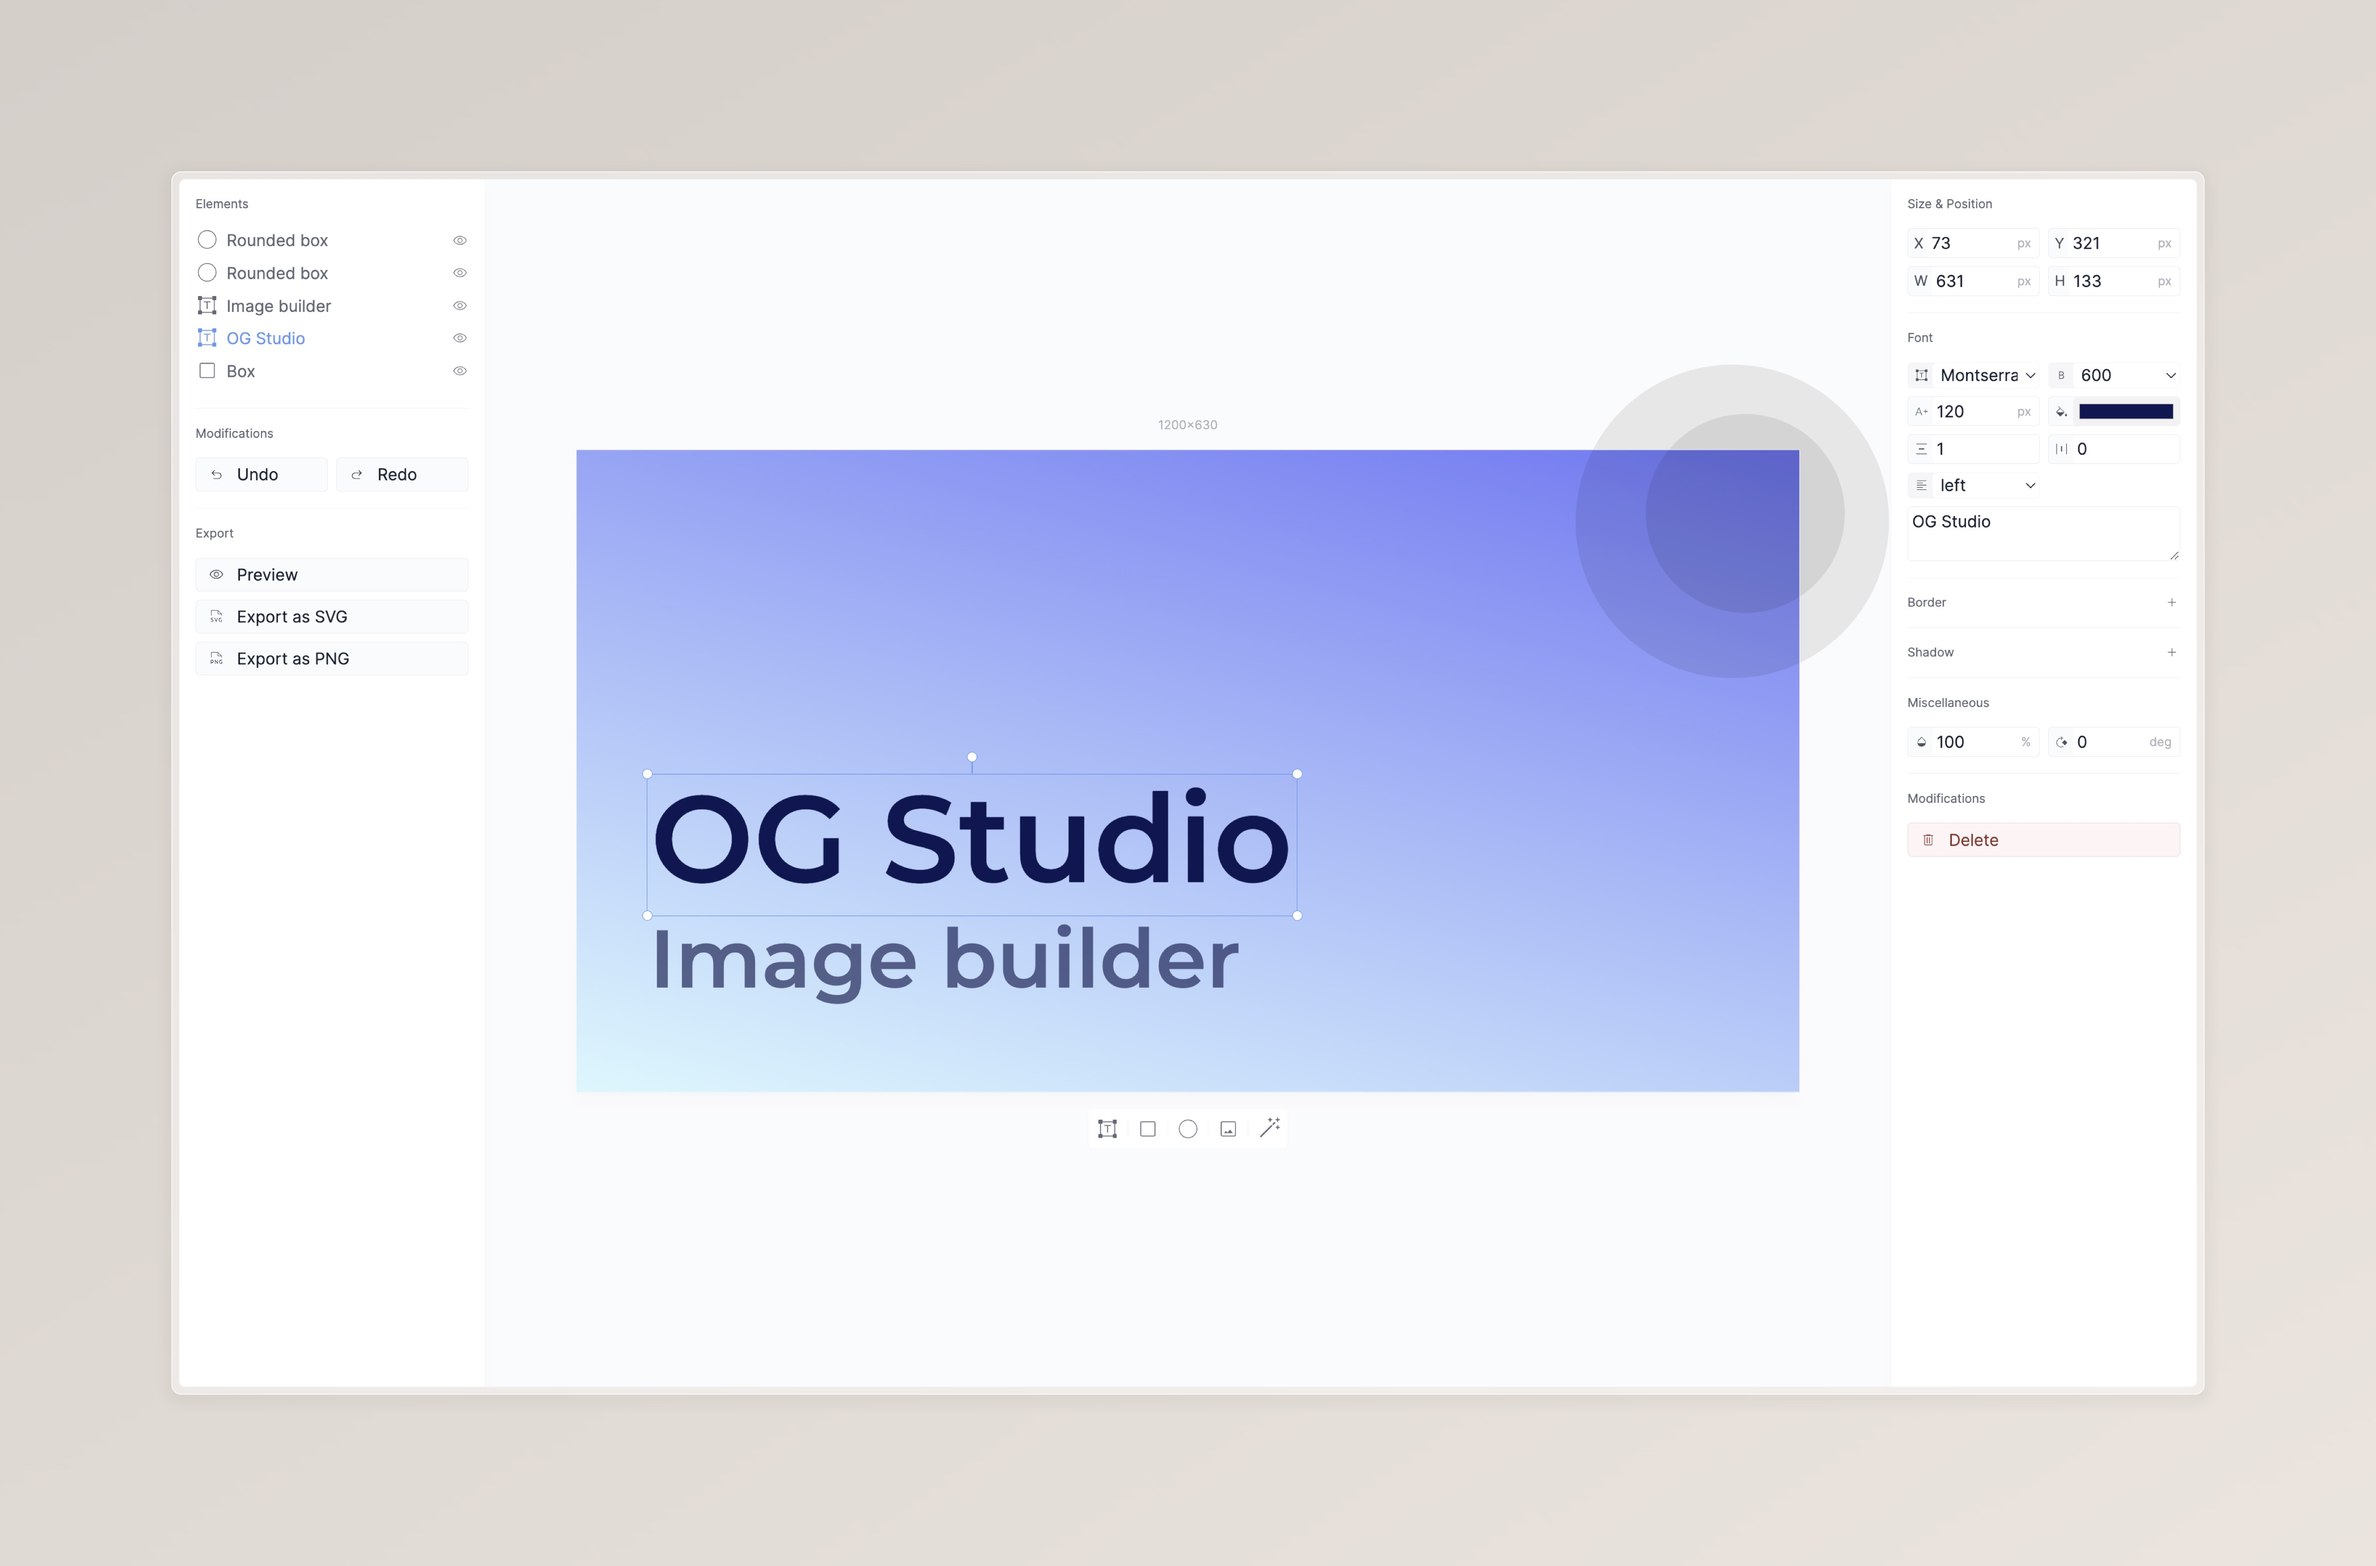
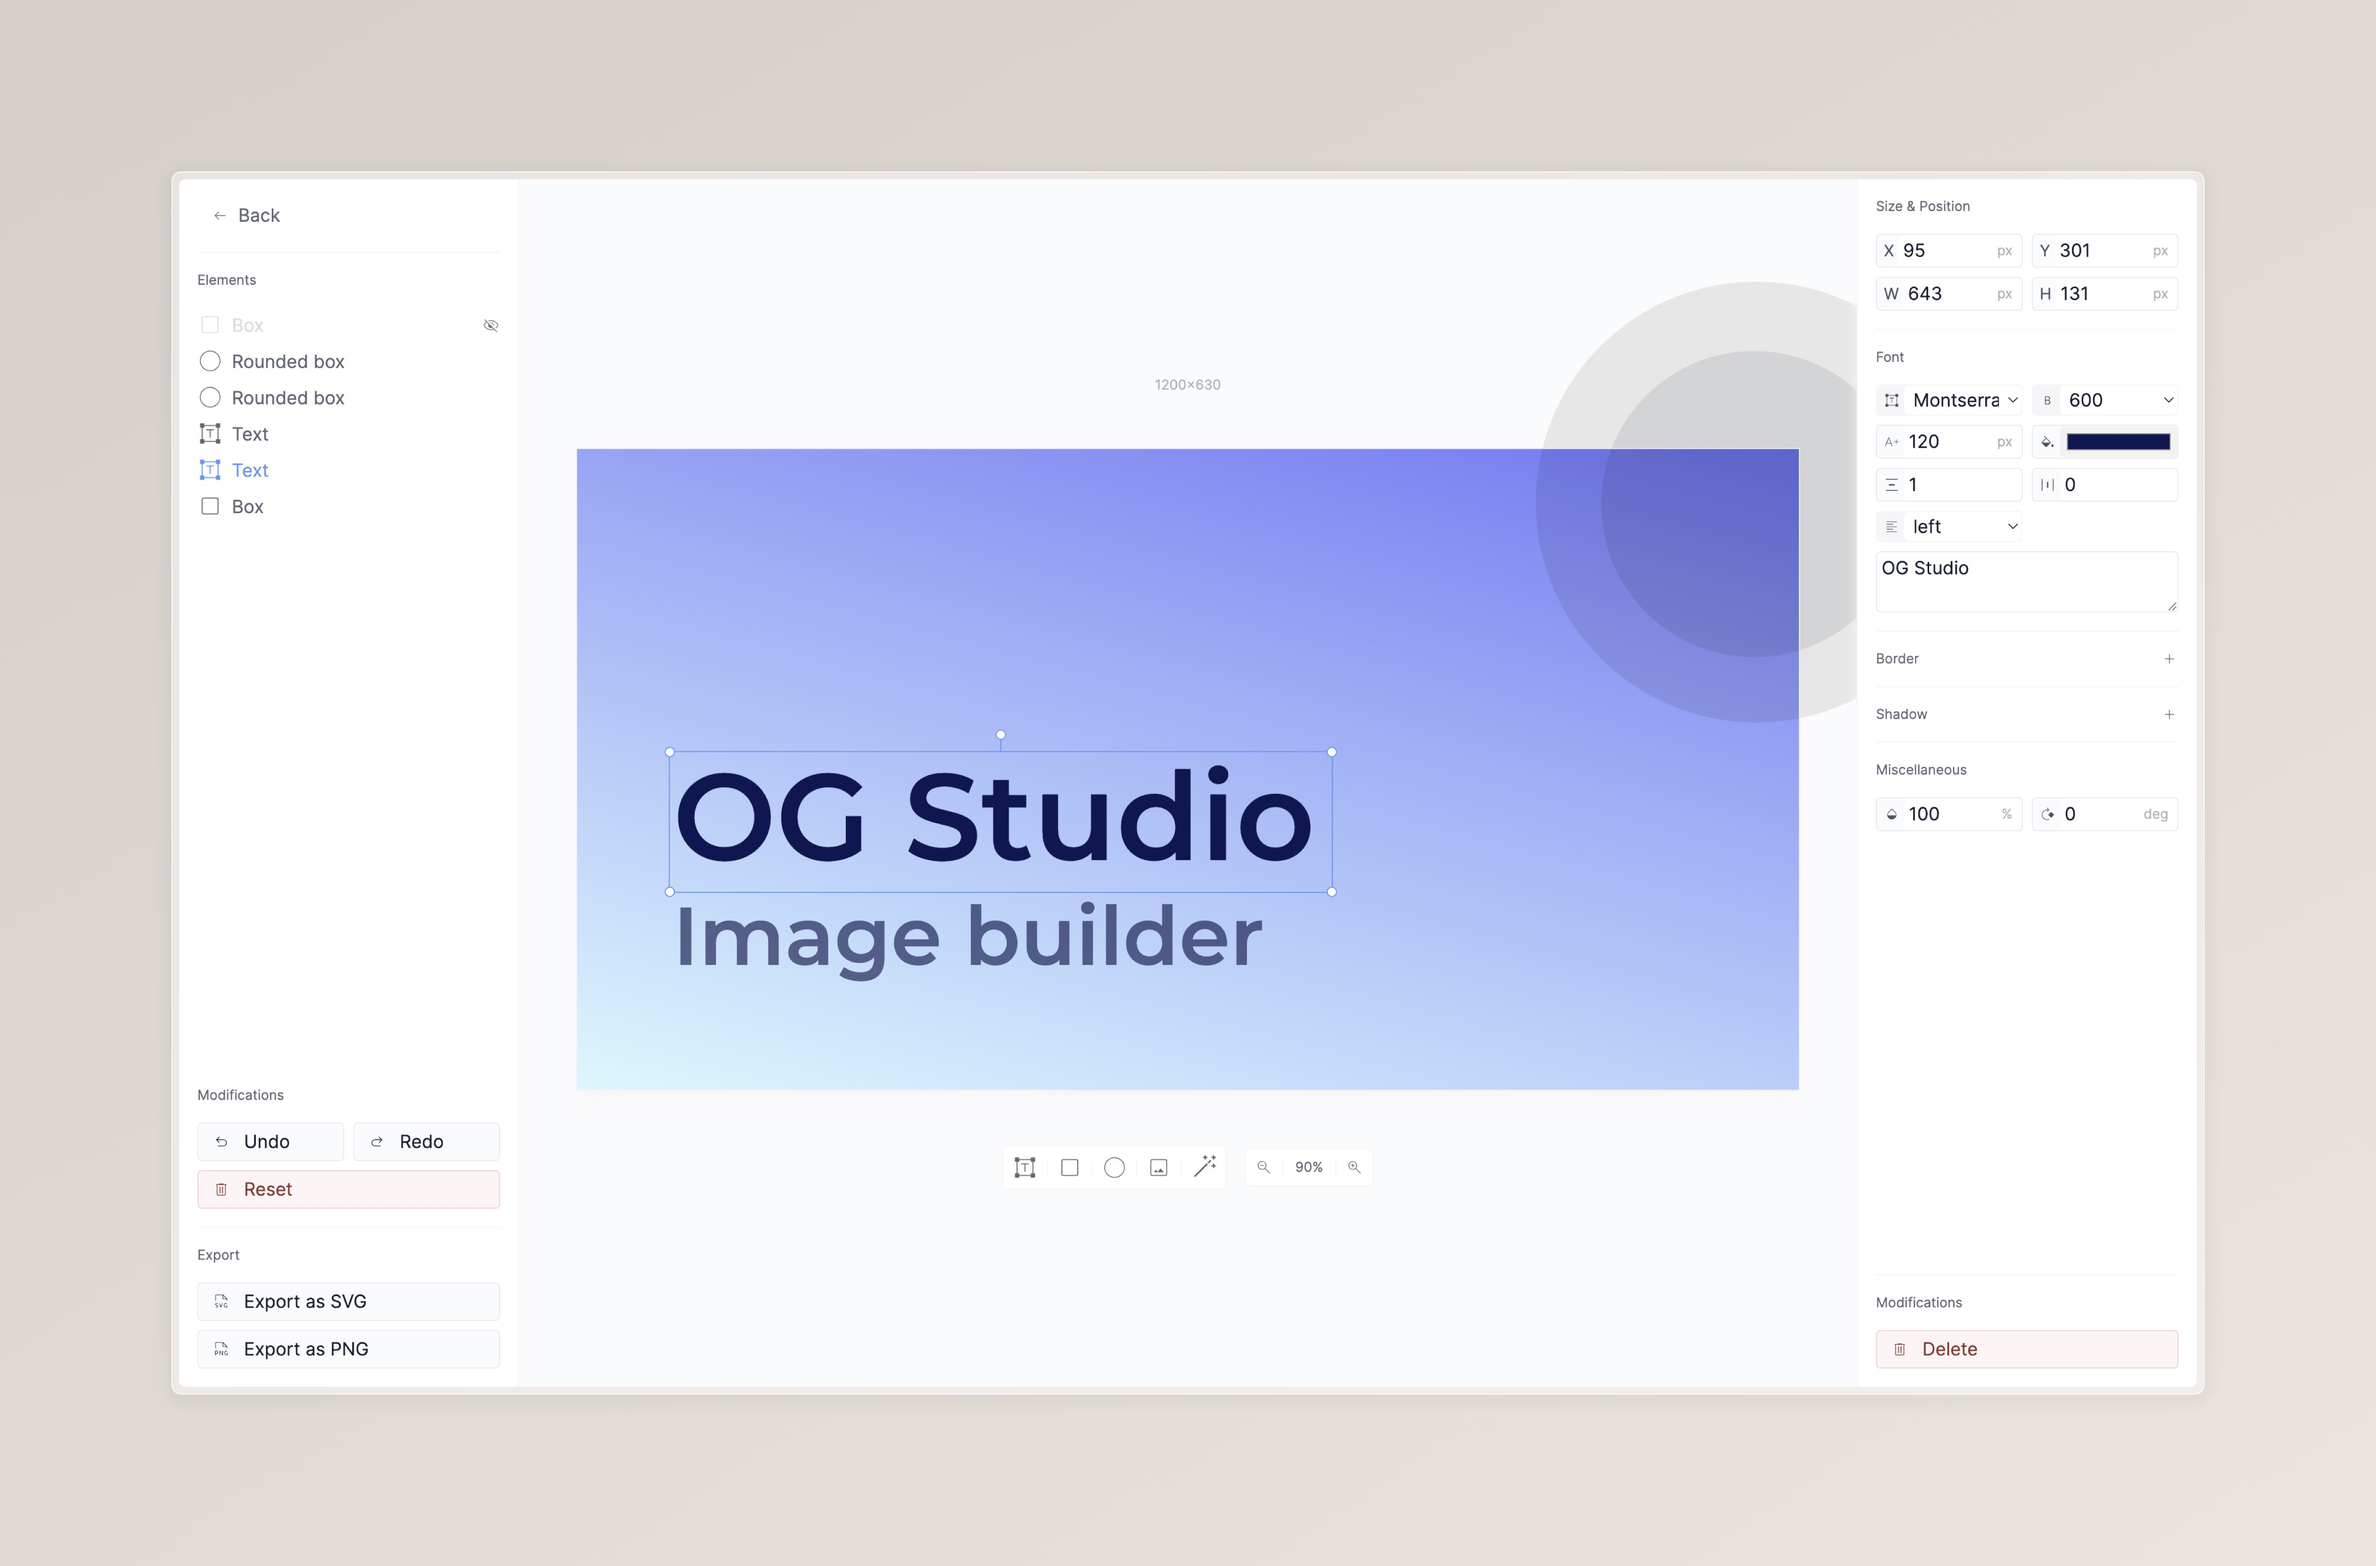
fix: batch of small bugs (#28)

diff --git a/apps/dashboard/src/components/RightPanel/index.tsx b/apps/dashboard/src/components/RightPanel/index.tsx
@@ -20,20 +20,24 @@ export function RightPanel() {
   }
 
   return (
-    <div className="flex flex-col items-start gap-4 p-4">
-      <SizePositionSection selectedElement={selectedElementData} />
-      <div className="h-[1px] w-full bg-gray-100" />
-      <FontSection selectedElement={selectedElementData} />
-      <BackgroundSection selectedElement={selectedElementData} />
-      <div className="h-[1px] w-full bg-gray-100" />
-      <BorderSection selectedElement={selectedElementData} />
-      <div className="h-[1px] w-full bg-gray-100" />
-      <ShadowSection selectedElement={selectedElementData} />
-      <div className="h-[1px] w-full bg-gray-100" />
-      <MiscellanousSection selectedElement={selectedElementData} />
-      <div className="h-[1px] w-full bg-gray-100" />
-      <ModificationsSection selectedElement={selectedElementData} />
-    </div >
+    <div className="flex flex-col justify-between p-4 h-full">
+      <div className="flex flex-col items-start gap-4">
+        <SizePositionSection selectedElement={selectedElementData} />
+        <div className="h-[1px] w-full bg-gray-100" />
+        <FontSection selectedElement={selectedElementData} />
+        <BackgroundSection selectedElement={selectedElementData} />
+        <div className="h-[1px] w-full bg-gray-100" />
+        <BorderSection selectedElement={selectedElementData} />
+        <div className="h-[1px] w-full bg-gray-100" />
+        <ShadowSection selectedElement={selectedElementData} />
+        <div className="h-[1px] w-full bg-gray-100" />
+        <MiscellanousSection selectedElement={selectedElementData} />
+      </div>
+      <div className="flex flex-col items-start gap-4">
+        <div className="h-[1px] w-full bg-gray-100" />
+        <ModificationsSection selectedElement={selectedElementData} />
+      </div>
+    </div>
   )
 }
 

diff --git a/apps/dashboard/src/components/LeftPanel/ElementRow.tsx b/apps/dashboard/src/components/LeftPanel/ElementRow.tsx
@@ -32,9 +32,9 @@ export function ElementRow({ element }: ElementRowProps) {
   };
 
   return (
-    <div className="flex justify-between items-center pb-2 cursor-auto" ref={setNodeRef} style={style} {...attributes} {...listeners}>
+    <div className="flex justify-between items-center cursor-auto group" ref={setNodeRef} style={style} {...attributes} {...listeners}>
       <button
-        className={`flex gap-2 select-none text-gray-600 hover:text-gray-900 w-full ${selectedElementId === element.id ? '!text-blue-500' : ''} ${!element.visible ? '!text-gray-300' : ''}`}
+        className={`flex gap-2 select-none py-1 text-gray-600 hover:text-gray-900 w-full ${selectedElementId === element.id ? '!text-blue-500' : ''} ${!element.visible ? '!text-gray-300' : ''}`}
         onClick={() => { setSelectedElementId(element.id); }}
         type="button"
       >
@@ -61,7 +61,7 @@ export function ElementRow({ element }: ElementRowProps) {
         {element.name}
       </button>
       <button
-        className="text-gray-600 hover:text-gray-900"
+        className={`text-gray-600 hover:text-gray-900 hidden group-hover:block ${!element.visible ? '!block' : ''}`}
         onClick={() => {
           updateElement({
             ...element,

diff --git a/apps/dashboard/src/components/forms/Button.tsx b/apps/dashboard/src/components/forms/Button.tsx
@@ -11,7 +11,7 @@ interface ButtonProps {
 
 export function Button({ icon, variant, onClick, isLoading, className, children }: ButtonProps) {
   return (
-    <button className={`flex gap-3 items-center px-3 py-1 border rounded ${variant === 'danger' ? 'text-red-900 bg-red-50 border-red-200 hover:border-red-300' : 'text-gray-900 bg-gray-50 border-gray-200 hover:border-gray-300'} ${isLoading ? 'cursor-not-allowed opacity-60' : ''} ${className}`} onClick={isLoading ? undefined : onClick} type="button">
+    <button className={`flex gap-3 items-center px-3 py-1 border rounded select-none ${variant === 'danger' ? 'text-red-900 bg-red-50 border-red-200 hover:border-red-300' : 'text-gray-900 bg-gray-50 border-gray-200 hover:border-gray-300'} ${isLoading ? 'cursor-not-allowed opacity-60' : ''} ${className}`} onClick={isLoading ? undefined : onClick} type="button">
       {icon}
       {children}
     </button>

diff --git a/apps/dashboard/src/components/LeftPanel/index.tsx b/apps/dashboard/src/components/LeftPanel/index.tsx
@@ -5,14 +5,17 @@ import { SplashSection } from "./SplashSection";
 
 export function LeftPanel() {
   return (
-    <div className="flex flex-col items-start gap-4 p-4">
-      <SplashSection />
-      <div className="h-[1px] w-full bg-gray-100" />
-      <ElementsSection />
-      <div className="h-[1px] w-full bg-gray-100" />
-      <ModificationSection />
-      <div className="h-[1px] w-full bg-gray-100" />
-      <ExportSection />
+    <div className="flex flex-col justify-between p-4 h-full">
+      <div className="flex flex-col items-start gap-4">
+        <SplashSection />
+        <div className="h-[1px] w-full bg-gray-100" />
+        <ElementsSection />
+      </div>
+      <div className="flex flex-col items-start gap-4">
+        <ModificationSection />
+        <div className="h-[1px] w-full bg-gray-100" />
+        <ExportSection />
+      </div>
     </div >
   )
 }

diff --git a/apps/dashboard/src/lib/__tests__/export.test.ts b/apps/dashboard/src/lib/__tests__/export.test.ts
@@ -129,8 +129,33 @@ describe('renderToImg', () => {
         letterSpacing: 0,
         fontSize: 50,
         align: 'left',
+      },
+    ])
+    expect(data).toMatchSnapshot()
+  })
 
-      }
+  it('should not render non-visible elements', async () => {
+    const data = await renderToImg([
+      {
+        tag: 'p',
+        id: createElementId(),
+        name: 'Text',
+        width: 100,
+        height: 50,
+        x: 0,
+        y: 0,
+        visible: false,
+        rotate: 0,
+        opacity: 100,
+        content: 'Text',
+        color: '#000000',
+        fontFamily: 'Inter',
+        fontWeight: 400,
+        lineHeight: 1,
+        letterSpacing: 0,
+        fontSize: 50,
+        align: 'left',
+      },
     ])
     expect(data).toMatchSnapshot()
   })

diff --git a/apps/dashboard/src/components/OgEditor.tsx b/apps/dashboard/src/components/OgEditor.tsx
@@ -196,7 +196,7 @@ export function OgEditor({ imageId, width, height }: OgProviderProps) {
   return (
     <OgContext.Provider value={value}>
       <div className="w-screen h-screen flex flex-row justify-between items-center bg-gray-50 overflow-hidden">
-        <div className="w-[300px] min-w-[300px] h-screen flex flex-col border-r border-gray-100 shadow-lg shadow-gray-100 bg-white z-10">
+        <div className="w-[300px] min-w-[300px] h-screen border-r border-gray-100 shadow-lg shadow-gray-100 bg-white z-10">
           <LeftPanel />
         </div>
         <div className="flex flex-col items-center gap-4 fixed transform left-1/2 -translate-x-1/2">

diff --git a/apps/dashboard/src/components/LeftPanel/ElementsSection.tsx b/apps/dashboard/src/components/LeftPanel/ElementsSection.tsx
@@ -39,7 +39,7 @@ export function ElementsSection() {
   return (
     <>
       <p className="text-xs text-gray-600">Elements</p>
-      <div className="flex flex-col-reverse w-full">
+      <div className="flex flex-col-reverse w-full max-h-[calc(100vh-420px)] overflow-y-scroll no-scrollbar">
         <DndContext collisionDetection={closestCenter} modifiers={[restrictToVerticalAxis]} onDragEnd={handleDragEnd} onDragOver={handleDragEnd} sensors={sensors}>
           <SortableContext items={elements} strategy={verticalListSortingStrategy}>
             {elements.map(element => (

diff --git a/apps/dashboard/src/components/CustomLink.tsx b/apps/dashboard/src/components/CustomLink.tsx
@@ -10,7 +10,7 @@ interface CustomLinkProps {
 
 export function CustomLink({ icon, iconPosition = 'left', href, children }: CustomLinkProps) {
   return (
-    <Link className="flex gap-2 items-center px-3 py-1 rounded-full text-gray-600 hover:text-gray-900 hover:bg-gray-50" href={href}>
+    <Link className="flex gap-2 items-center px-3 py-1 rounded-full text-gray-600 hover:text-gray-900 hover:bg-gray-50 select-none" href={href}>
       {icon && iconPosition === 'left' ? icon : null}
       {children}
       {icon && iconPosition === 'right' ? icon : null}

diff --git a/apps/dashboard/src/components/EditorToolbar.tsx b/apps/dashboard/src/components/EditorToolbar.tsx
@@ -127,7 +127,7 @@ export function EditorToolbar() {
         </ToolbarButton>
         <div className="w-[1px] h-4 bg-gray-100" />
         {/* Set absolute width to make sure it doesn't change the layout */}
-        <span className="text-xs w-[46px] text-center text-gray-600">{zoom}%</span>
+        <span className="text-xs w-[46px] text-center text-gray-600 select-none">{zoom}%</span>
         <div className="w-[1px] h-4 bg-gray-100" />
         <ToolbarButton onClick={() => { zoomIn() }}>
           <ZoomInIcon />

diff --git a/apps/dashboard/src/components/Splash/MyImagesSplash.tsx b/apps/dashboard/src/components/Splash/MyImagesSplash.tsx
@@ -19,7 +19,7 @@ export function MyImagesSplash() {
           Back
         </CustomLink>
       </div>
-      <div className="grid grid-cols-3 gap-2 max-h-[50vh] overflow-y-scroll no-scrollbar">
+      <div className="grid grid-cols-3 gap-2 max-h-[427px] overflow-y-scroll no-scrollbar">
         <OgImage onClick={() => {
           const { id } = createEmptyImage()
           router.push(`/?i=${id}`)

diff --git a/apps/dashboard/src/components/Splash/TemplatesSplash.tsx b/apps/dashboard/src/components/Splash/TemplatesSplash.tsx
@@ -13,7 +13,7 @@ export function TemplatesSplash() {
           Back
         </CustomLink>
       </div>
-      <div className="grid grid-cols-3 gap-2 max-h-[50vh] overflow-y-scroll no-scrollbar">
+      <div className="grid grid-cols-3 gap-2 max-h-[427px] overflow-y-scroll no-scrollbar">
         {TEMPLATES.map((template) => (
           <OgImage
             elements={template.elements}

diff --git a/apps/dashboard/src/lib/export.ts b/apps/dashboard/src/lib/export.ts
@@ -150,7 +150,7 @@ export async function renderToImg(elements: OGElement[]) {
         width: '100%',
         height: '100%',
       },
-      children: elements.map(element => ({
+      children: elements.filter(element => element.visible).map(element => ({
         type: element.tag,
         props: {
           style: createElementStyle(element),
